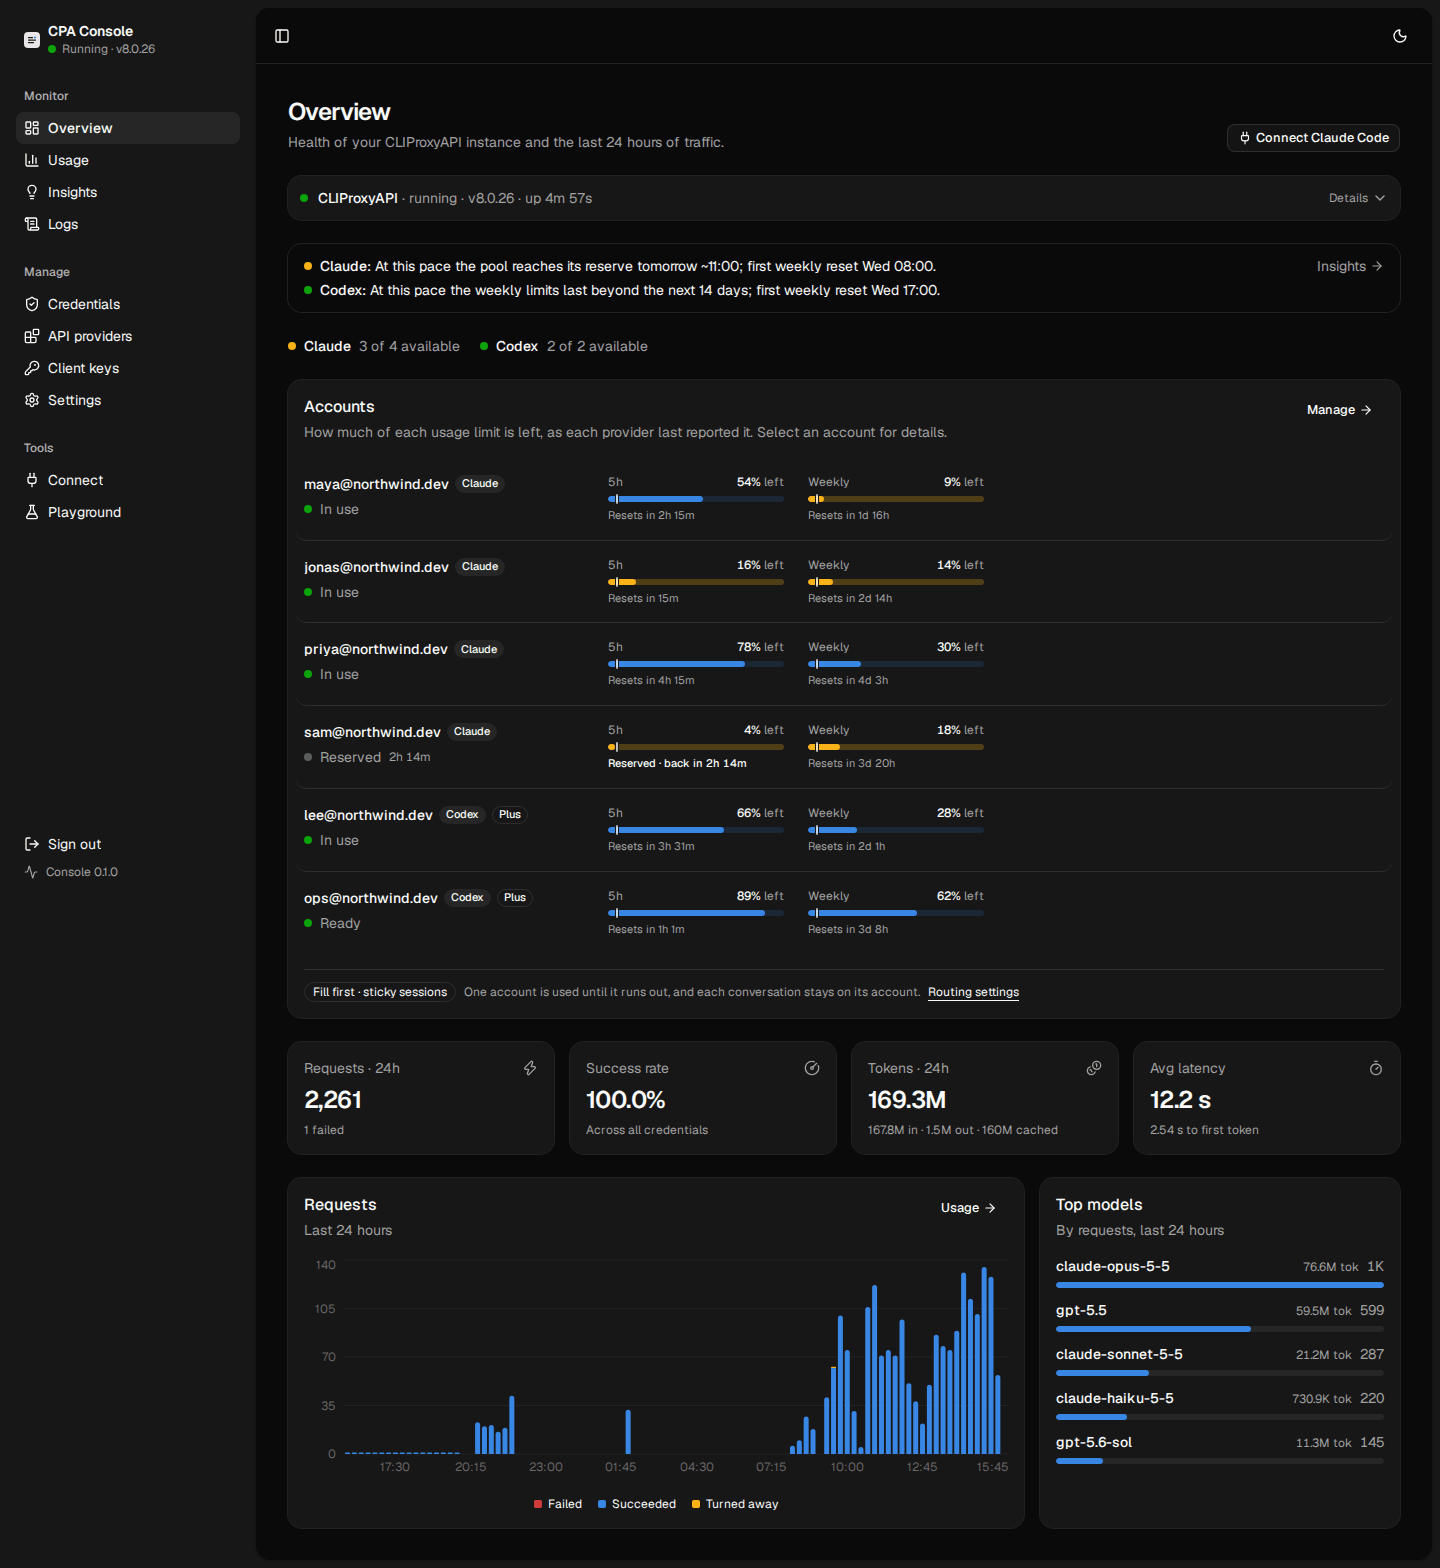
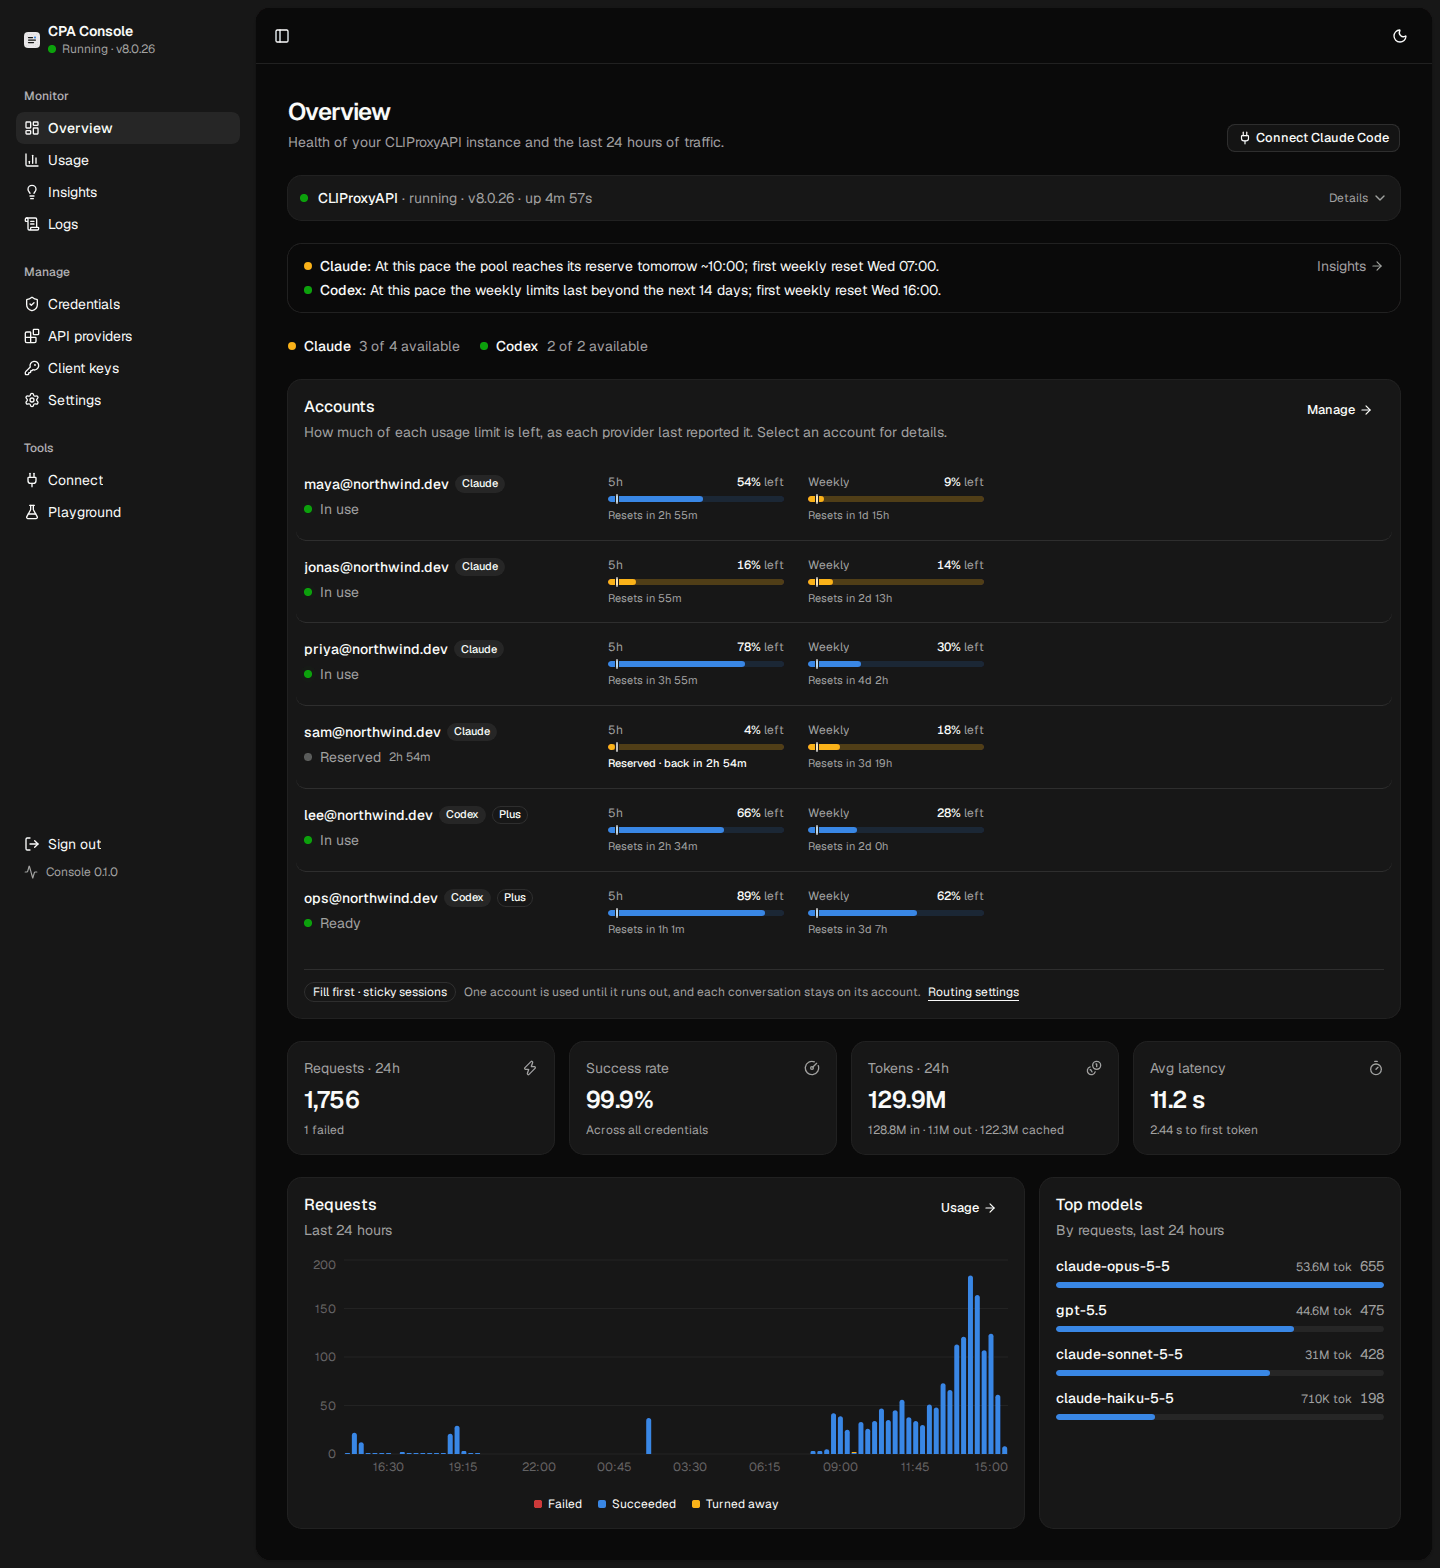
Retake the screenshots in one 24-hour locale, with a sharper phone shot
Every page is shot in en-GB now, so times read the same everywhere. The
phone shot is taken at 2x and shown at 260px. The made-up unknown model is
claude-opus-9, so it no longer reads like a typo of claude-opus-5-5, and
Insights shows the new "Since …" wording.

diff --git a/README.md b/README.md
@@ -36,7 +36,7 @@ CPA, runs it as a supervised process and gives you a polished UI to manage it. Y
   </tr>
   <tr>
     <td><a href="docs/screenshots/overview-dark.png"><img src="docs/screenshots/overview-dark.png" alt="Overview in dark mode"></a><br>Dark mode.</td>
-    <td><a href="docs/screenshots/overview-phone.png"><img src="docs/screenshots/overview-phone.png" alt="Overview on a phone" width="195"></a><br>On a phone.</td>
+    <td><a href="docs/screenshots/overview-phone.png"><img src="docs/screenshots/overview-phone.png" alt="Overview on a phone" width="260"></a><br>On a phone.</td>
   </tr>
 </table>
 
